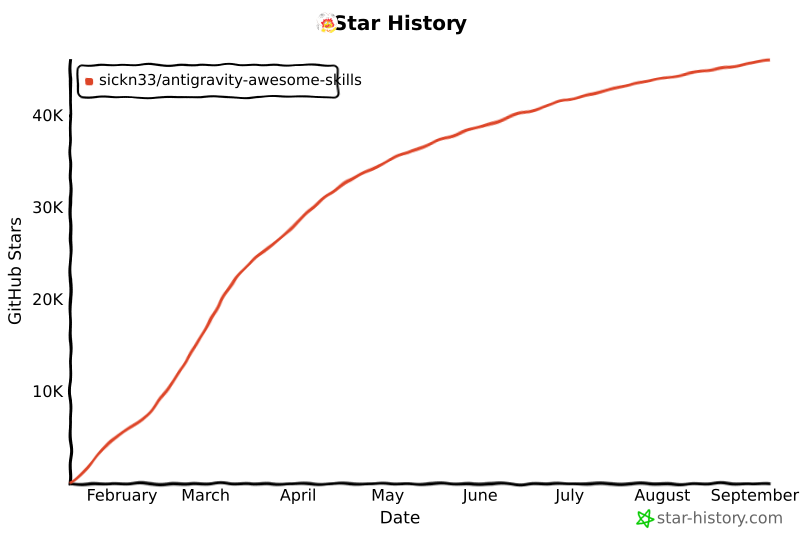
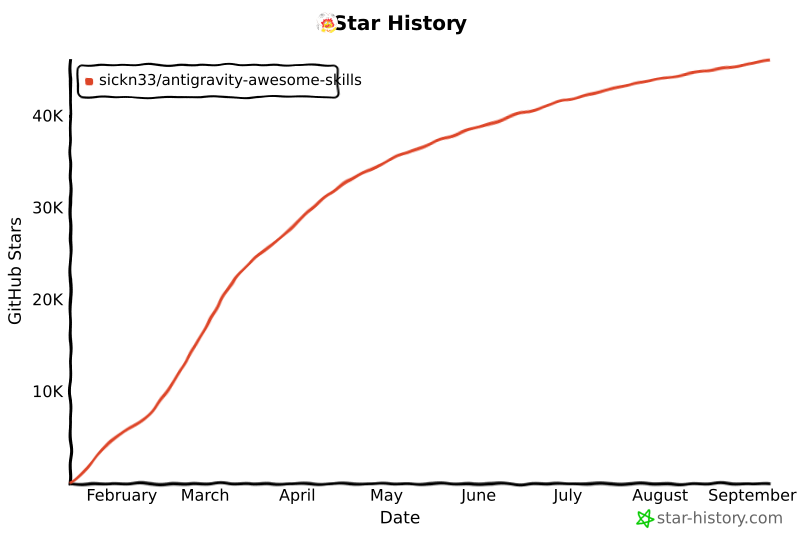
chore: update star history chart

diff --git a/README.md b/README.md
@@ -534,14 +534,14 @@ We officially thank the following contributors for their help in making this rep
 ## Star History
 
 <a href="https://www.star-history.com/#sickn33/antigravity-awesome-skills&type=date&legend=top-left">
- <img alt="Star History Chart" src="https://api.star-history.com/svg?repos=sickn33/antigravity-awesome-skills&type=date&legend=top-left&cache_bust=202609060950" />
+ <img alt="Star History Chart" src="https://api.star-history.com/svg?repos=sickn33/antigravity-awesome-skills&type=date&legend=top-left&cache_bust=202609071056" />
 </a>
 
 <a href="https://www.star-history.com/sickn33/antigravity-awesome-skills">
  <picture>
-   <source media="(prefers-color-scheme: dark)" srcset="https://api.star-history.com/chart?repos=sickn33/antigravity-awesome-skills&style=landscape1&theme=dark&cache_bust=202609060950" />
-   <source media="(prefers-color-scheme: light)" srcset="https://api.star-history.com/chart?repos=sickn33/antigravity-awesome-skills&style=landscape1&cache_bust=202609060950" />
-   <img alt="Star History Chart" src="https://api.star-history.com/chart?repos=sickn33/antigravity-awesome-skills&style=landscape1&cache_bust=202609060950" />
+   <source media="(prefers-color-scheme: dark)" srcset="https://api.star-history.com/chart?repos=sickn33/antigravity-awesome-skills&style=landscape1&theme=dark&cache_bust=202609071056" />
+   <source media="(prefers-color-scheme: light)" srcset="https://api.star-history.com/chart?repos=sickn33/antigravity-awesome-skills&style=landscape1&cache_bust=202609071056" />
+   <img alt="Star History Chart" src="https://api.star-history.com/chart?repos=sickn33/antigravity-awesome-skills&style=landscape1&cache_bust=202609071056" />
  </picture>
 </a>
 
